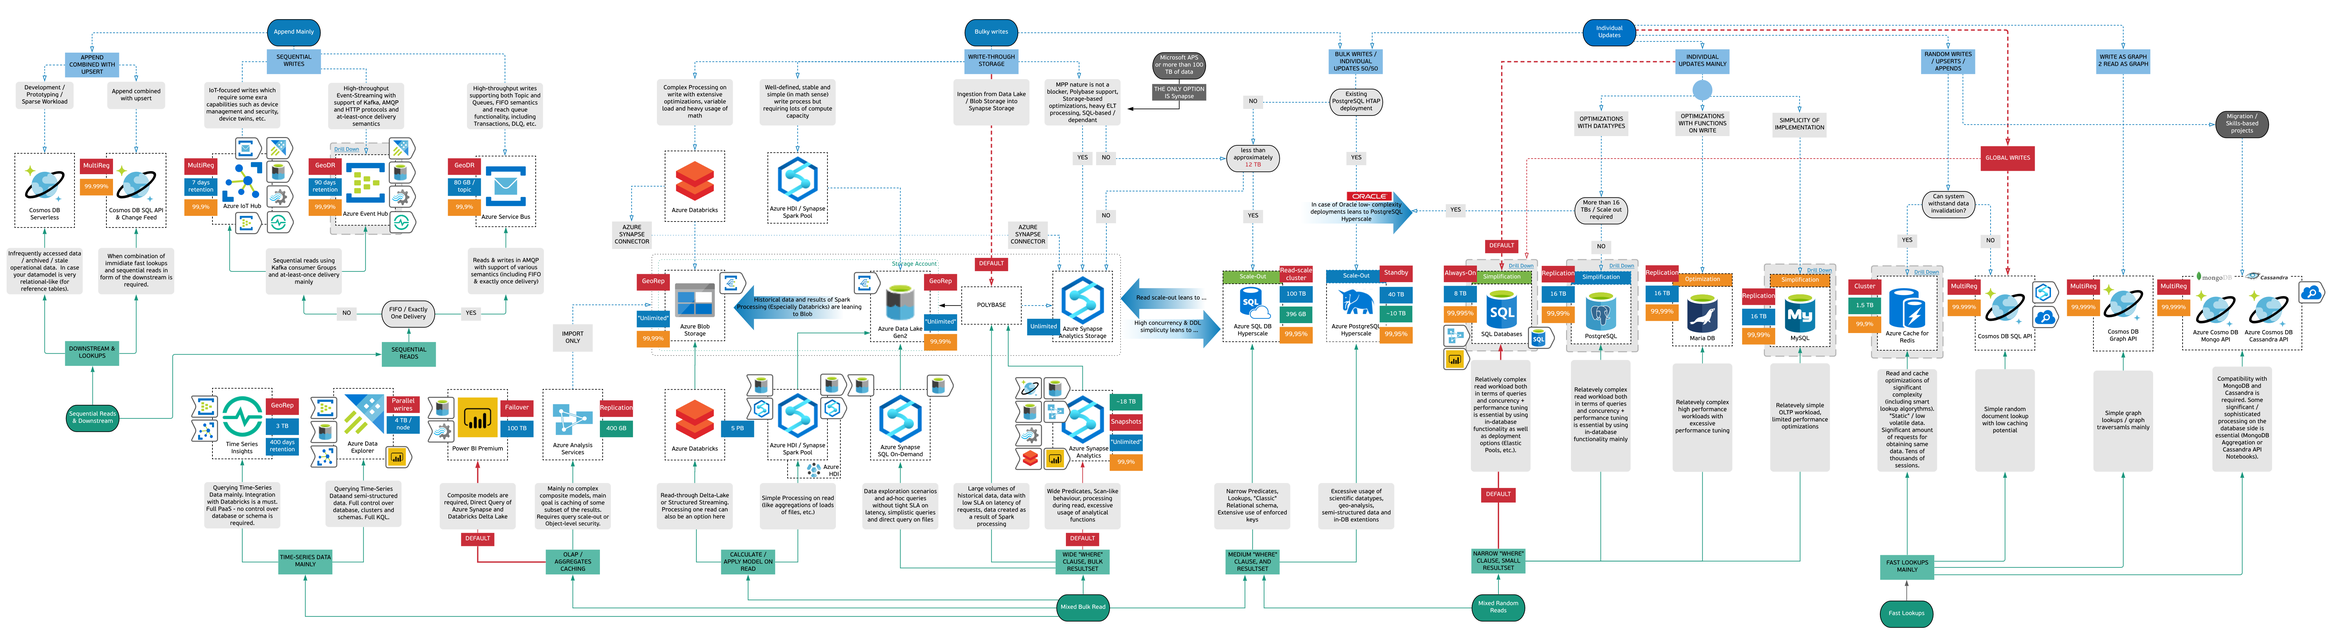
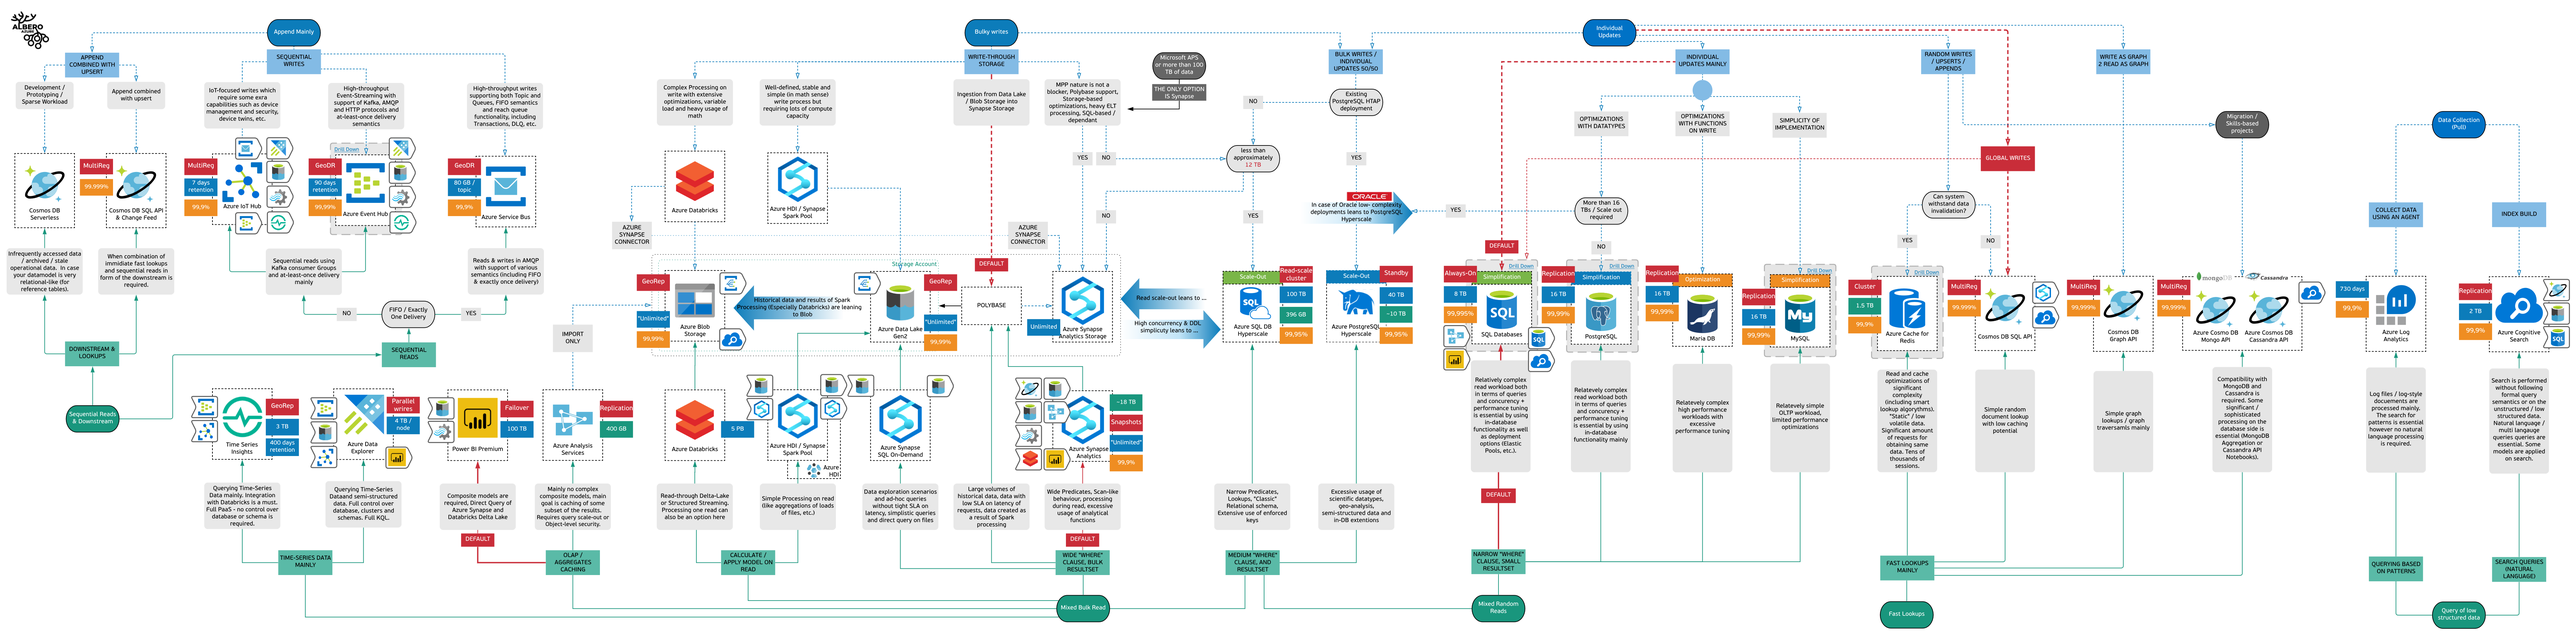
LogAnalytics & Azure Search added 2 main DT and Dev View

diff --git a/index.html b/index.html
@@ -170,6 +170,7 @@
 		  <area shape="rect" coords="2026, 815, 2170, 1029" alt="Azure Blob Home" href="https://docs.microsoft.com/en-us/azure/storage/blobs/" />
 		  <area shape="rect" coords="2167, 816, 2257, 892" href="https://docs.microsoft.com/en-us/azure/event-grid/event-schema-blob-storage" alt="Azure Blob integration with Event Grid" />
 		  <area shape="rect" coords="1916, 997, 2020, 1052" href="https://azure.microsoft.com/en-us/support/legal/sla/storage/v1_5/" alt="Azure Blob SLA" />
+		  <area shape="rect" coords="2166, 990, 2253, 1059" alt="Azure Search Integration" href="https://docs.microsoft.com/en-us/azure/search/search-what-is-data-import" />
 		  <!--Azure ADLS-->
 		  <area shape="rect" coords="2662, 821, 2784, 1035" alt="ADLS Home" href="https://docs.microsoft.com/en-us/azure/storage/blobs/data-lake-storage-introduction" />
 		  <area shape="rect" coords="2575, 815, 2663, 892" href="https://docs.microsoft.com/en-us/azure/event-grid/event-schema-blob-storage" alt="ADLS Gen2 integration with Event Grid" />
@@ -183,6 +184,7 @@
 		  <area shape="rect" coords="4606, 984, 4696, 1057" alt="Distributed Transactions" href="https://docs.microsoft.com/en-us/azure/azure-sql/database/elastic-transactions-overview" />
 		  <area shape="rect" coords="4352, 1050, 4438, 1121" alt="PBI Integration SQL Database" href="https://docs.microsoft.com/en-us/power-bi/connect-data/service-azure-sql-database-with-direct-connect" />
 		  <area shape="rect" coords="4465, 779, 4648, 1071" href="html/azuresql.html" alt="SQL Database" />
+		  <area shape="rect" coords="4608, 1054, 4696, 1125" alt="Azure Search Integration" href="https://docs.microsoft.com/en-us/azure/search/search-what-is-data-import" />
 		  <!--Azure PostgreSQL-->
 		  <area shape="rect" coords="4001, 816, 4161, 1034" alt="PostgreSQL Hyperscale Home" href="https://docs.microsoft.com/en-us/azure/postgresql/hyperscale/" />
 		  <area shape="rect" coords="4652, 925, 4756, 980" href="https://azure.microsoft.com/en-us/support/legal/sla/postgresql/v1_1/" alt="PostgreSQL Database SLA" />
@@ -198,6 +200,19 @@
 		  <area shape="rect" coords="5573, 955, 5677, 1010" href="https://azure.microsoft.com/en-us/support/legal/sla/cache/v1_0/" alt="Redis SLA" />
 		  <!--Azure HDI-->
 		  <area shape="rect" coords="2429, 1393, 2540, 1446" alt="HDI" href="https://azure.microsoft.com/en-us/services/hdinsight/" />
+		  <!--Azure Search-->
+		  <area shape="rect" coords="7671, 986, 7759, 1053" alt="Azure Search Integration" href="https://docs.microsoft.com/en-us/azure/search/search-what-is-data-import" />
+		  <area shape="rect" coords="7671, 911, 7760, 982" alt="Azure Search Integration" href="https://docs.microsoft.com/en-us/azure/search/search-what-is-data-import" />
+		  <area shape="rect" coords="7671, 837, 7757, 908" alt="Azure Search Integration" href="https://docs.microsoft.com/en-us/azure/search/search-what-is-data-import" />
+		  <area shape="rect" coords="7417, 971, 7525, 1032" alt="Azure Search SLA" href="https://azure.microsoft.com/en-us/support/legal/sla/search/v1_0/" />
+		  <area shape="rect" coords="7415, 910, 7521, 968" alt="Azure Search Storage" href="https://docs.microsoft.com/en-us/azure/search/search-limits-quotas-capacity" />
+		  <area shape="rect" coords="7415, 851, 7522, 909" alt="Azure Search HA" href="https://social.msdn.microsoft.com/Forums/office/en-US/ee108a26-00c5-49f6-b1ff-64c66c8b828a/dr-and-high-availability-for-azure-search?forum=azuresearch" />
+		  <area shape="rect" coords="7526, 832, 7672, 1064" alt="Azure Search Home" href="https://docs.microsoft.com/en-us/azure/search/" />
+		  <!--Log Analytics-->
+		  <area shape="rect" coords="7043, 903, 7152, 960" alt="LogAnalytics SLA" href="https://azure.microsoft.com/en-us/support/legal/sla/log-analytics/v1_3/" />
+		  <area shape="rect" coords="7041, 842, 7151, 903" alt="LogAnalytics Retention" href="https://azure.microsoft.com/en-us/updates/retention-by-type/" />
+		  <area shape="rect" coords="7151, 832, 7319, 1059" alt="LogANalytics Home" href="https://docs.microsoft.com/en-us/azure/azure-monitor/log-query/log-query-overview" />
+		  <area shape="rect" coords="7144, 605, 7313, 688" alt="LogAnalytics Agent" href="https://docs.microsoft.com/en-us/azure/azure-monitor/platform/log-analytics-agent" />
 		</map>
 	</div>
 <script>

diff --git a/html/forlang.html b/html/forlang.html
@@ -226,6 +226,17 @@
         <area shape="rect" coords="7332, 705, 7438, 760" alt="Cass .NET" href="https://docs.microsoft.com/en-us/azure/cosmos-db/create-cassandra-dotnet" />
         <area shape="rect" coords="7334, 932, 7437, 991" alt="Cass Diff" href="https://docs.microsoft.com/en-us/azure/cosmos-db/cassandra-support" />
         <area shape="rect" coords="7449, 706, 7588, 763" alt="Cass Supported Version" href="https://docs.microsoft.com/en-us/azure/cosmos-db/cassandra-faq" />
+      
+        <area shape="rect" coords="8022, 919, 8125, 978" alt="LogAnalytics Resultset" href="https://docs.microsoft.com/en-us/azure/azure-monitor/service-limits" />
+        <area shape="rect" coords="8020, 765, 8127, 822" alt="LogAnalytics Kusto" href="https://docs.microsoft.com/en-us/azure/azure-monitor/log-query/log-query-overview" />
+        <area shape="rect" coords="8020, 700, 8127, 760" alt="LogAnalytics File Format Custom Logs" href="https://docs.microsoft.com/en-us/azure/azure-monitor/platform/data-sources-custom-logs" />
+        <area shape="rect" coords="7754, 758, 7859, 813" alt="LogAnalytics Python" href="https://azure.github.io/azure-sdk-for-python/ref/Log-Analytics.html" />
+        <area shape="rect" coords="7757, 700, 7862, 756" alt="LogAnalytics .NET" href="https://dev.loganalytics.io/oms/documentation/4-Tools/CSharp-Sdk" />
+
+        <area shape="rect" coords="8384, 698, 8711, 1004" alt="Search Files" href="https://docs.microsoft.com/en-us/azure/search/search-howto-indexing-azure-blob-storage" />
+        <area shape="rect" coords="8142, 925, 8244, 976" alt="Search Limitation" href="https://docs.microsoft.com/en-us/azure/search/search-limits-quotas-capacity" />
+        <area shape="rect" coords="8138, 760, 8246, 814" alt="Search API" href="https://docs.microsoft.com/en-us/rest/api/searchservice/" />
+        <area shape="rect" coords="8141, 700, 8248, 757" alt="Search .NET" href="https://docs.microsoft.com/en-us/azure/search/search-howto-dotnet-sdk" />
       </map>
   </body>
 </html>
